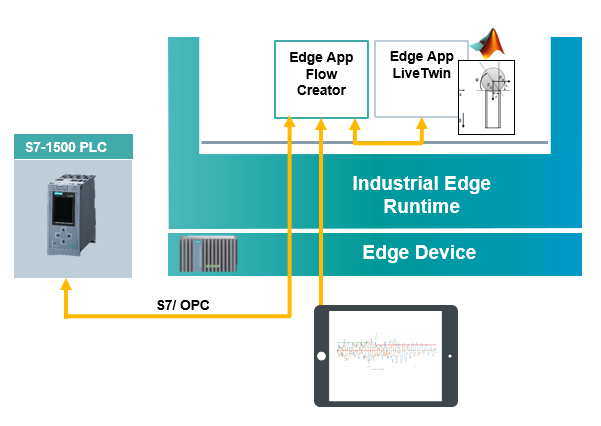
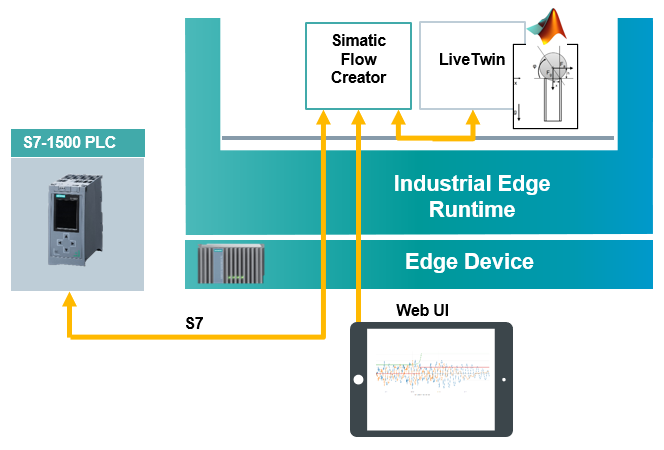
installation

Changed region(s): [[0.0, 0.0, 0.9884, 0.9765], [0.2696, 0.0305, 0.3594, 0.0915]]

diff --git a/docs/Installation.md b/docs/Installation.md
@@ -2,6 +2,7 @@
 
 
 - [LiveTwin application example](#livetwin-application-example)
+  - [Configure PLC project](#configure-plc-project)
   - [Export Simulink model](#export-simulink-model)
   - [Import the model to LiveTwin](#import-the-model-to-livetwin)
     - [Create template](#create-template)
@@ -9,6 +10,14 @@
   - [Simulation configuration](#simulation-configuration)
   - [Run simulation](#run-simulation)
 
+
+## Configure PLC project
+1) Open TIA portal and open the project: [TIA project](../src/Shock_detection1500.zip). 
+
+2) Download the PLC program to PLC (It is also possible to use PLCSIM advance).
+
+3) Feel free to simulate provided HMI (*/path*) to control the PLC program. 
+  
 
 
 ## Export Simulink model 
@@ -27,7 +36,7 @@ The Simulink model for this use case is already in this repository: [Shock-senso
 
 
 ### Create template
-1) Open LiveTwin UI and go to the "LiveTwin studio" section located in the left main menu 
+1) Open LiveTwin UI and go to the "LiveTwin studio" section located in the left main menu.
 
 2) Go to the Libraries are and click on the "plus" button to add a template. New tab pop up in the working area. 
 
@@ -52,25 +61,29 @@ The Simulink model for this use case is already in this repository: [Shock-senso
 
 6) Navigate to the "New Project" area and fill the following information:
   - Select your "Template"
-  - Select "FLow Creator" as a "Project Type"
+  - Select "Flow Creator" as a "Project Type"
   - Give the project a name 
-  - Choose "Simulation Step" and "Project Cyclic Time" based on your reguirement
+  - Choose "Simulation Step" and "Project Cyclic Time" based on your reguirements
 
 
 <img src="docs/graphics/new_project.PNG" width="700"/>
 
- *Note: The "inputs" names will be used in Flow Creator as inputs to "LiveTwin" node.*  
+ *Important Note!:*
+  - *Click on the "Model info" tab*
+  - *The "inputs" names will be used in Flow Creator as inputs to "LiveTwin" node.*  
+
+<img src="docs/graphics/model_info.PNG" width="500"/>
 
 7) Click "Save&Close". The new Flow Creator project is created. 
 
 
 ## Simulation configuration
-
-*Note: The flow.json file is available in the repository.*
+[TIA project](../src/Shock_detection1500.zip)
+*Note: The flow.json file is available in the repository.* 
 
 1) Go to the "Flow Creator" section of the main menu. The Flow Creator application opens. 
 
-2) Search for "LiveTwin" node, drag and drop it in the flow. 
+2) Import the flow available here: [Flow-Creator-Project](src/flows.json).
   
 3) Double Click on the "LiveTwin" node to configure it's properties. 
   - In the "Model" section, select your template
@@ -80,13 +93,13 @@ The Simulink model for this use case is already in this repository: [Shock-senso
 
 4) Click "Done". 
 
-5) Now we need to read values from PLC (TIA project: [project](src/shock_sensor.zip)) and set them as inputs to LiveTwin node. To do that we have several options: 
+5) Now we need to read values from PLC and set them as inputs to LiveTwin node. To do that we have several options: 
   -  Recieve the data from databus using S7 connector system application
-  -  Recieve the data directly in Flow Creator using different protocols (see:  [connectivity](https://code.siemens.com/industrial-edge-sup/how-to-s/flowcreator-connectivity))
+  -  Recieve the data directly in Flow Creator using different protocols
   
  For this case we will recieve the data from PLC using S7 communication directly from Flow Creator using "S7 in" node. 
 
-6) Search for the "S7 in" node and drop it in the flow. Double click on the node.
+6) Search for the "S7 in" node in the flow. Double click on the node.
 
 7) In the "Properties" section click on the PLC configure button.
 
@@ -116,7 +129,7 @@ The syntax for the address of the variable contains the datablock, offset and da
 ## Run simulation
 
 1)To run the simulation follow these instructions:  
- - Make sure that PLC is connected to the Edge device and TIA project is downloaded ([TIA project](../src/Shock_detection1500.zip))
+ - Make sure that PLC is connected to the Edge device and TIA project is downloaded
  - Import the flow project to the Flow Creator application [Flow-Creator-Project](src/flows.json)
  - Configure the flow as instructed here: [Simulation configuration](simulation-configuration)
  - Deploy the Flow Creator application 

diff --git a/README.md b/README.md
@@ -1,8 +1,8 @@
-# LiveTwin application example 
+# Simulating virtual sensor with LiveTwin
 
-Running a simulation model on the edge device. Use Case App 5. 
+Running a simulation model on the edge device using Siemens app LiveTwin. 
 
-- [LiveTwin application example](#livetwin-application-example)
+- [Simulating virtual sensor with LiveTwin](#simulating-virtual-sensor-with-livetwin)
   - [Description](#description)
     - [Overview](#overview)
     - [General task](#general-task)
@@ -21,7 +21,7 @@ Running a simulation model on the edge device. Use Case App 5.
 This application example shows how to export Simulink virtual sensor model and run it on a edge device with LiveTwin edge application. The model can read data from PLC and send the current status back to the PLC. 
 
 ### General task
-The main goal of this automation task is to create Simulink model that simulates shock sensor, export it in the required format and run it on the edge device using LiveTwin. The edge device can read data from PLC simulating vibrations via integrated S7 connector system application. The model can evaluate whether the vibrations have occurred and send the current shock status back to PLC. The data flow can be visualize by using Simatic Flow Creator application.
+The main goal of this automation task is to create Simulink model that simulates shock sensor, export it in the required format and run it on the edge device using LiveTwin. The edge device can read data from PLC simulating vibrations via Simatic Flow Creator system application using S7 comunication protocol. The model can evaluate whether the vibrations have occurred and send the current shock status back to PLC. The data flow can be visualize by using Simatic Flow Creator application.
 
 
 <img src="docs/graphics/livetwin_task.PNG" width="400"/>
@@ -33,7 +33,7 @@ The main goal of this automation task is to create Simulink model that simulates
 - Onboarded Edge device on IEM
 - Installed system configurators
 - Installed system applications
-- Installed LiveTwin and Simatic Flow Creator application
+- Installed LiveTwin and Simatic Flow Creator applications
 - Edge device is connected to PLC 
 - TIA portal project downloaded to PLC ([TIA project](src/Shock_detection1500.zip))
 
